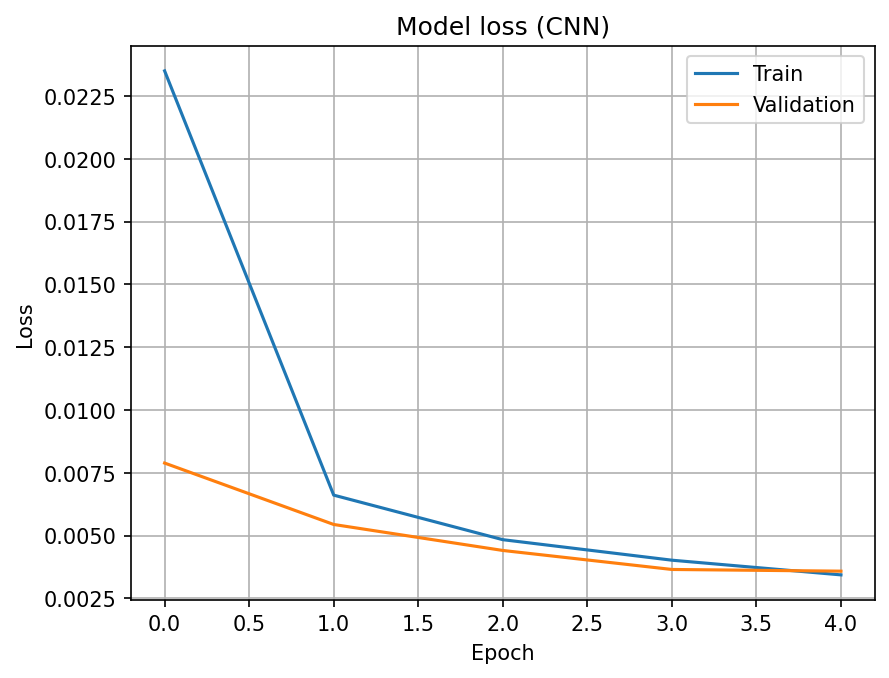
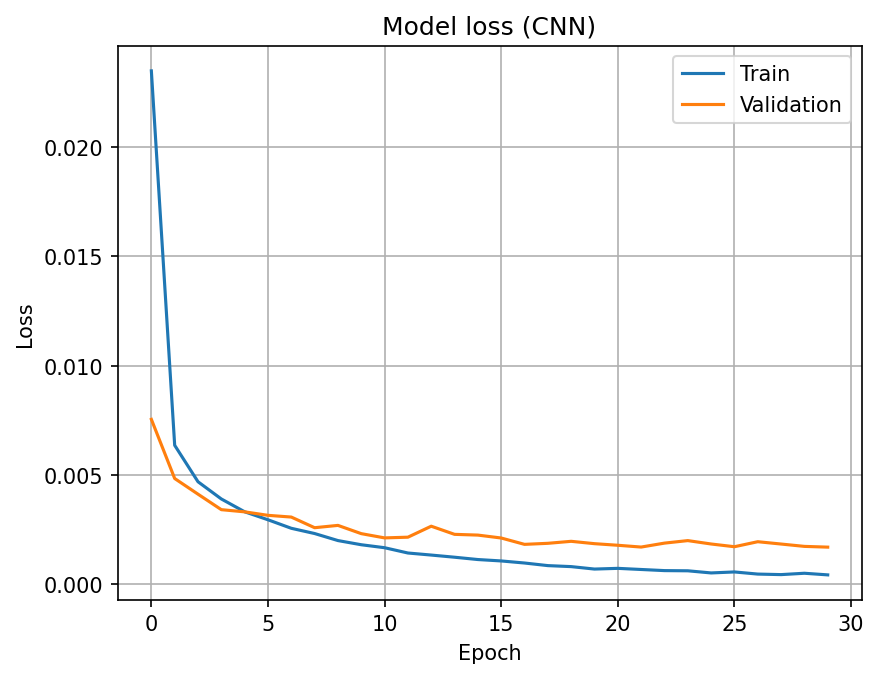
학습률 수정

diff --git a/week3/week3.py b/week3/week3.py
@@ -1,4 +1,4 @@
-import matplotlib
+    import matplotlib
 import numpy as np
 
 import matplotlib.pyplot as plt
@@ -31,7 +31,7 @@ cnn.add(Dense(84, activation='tanh',kernel_initializer='random_uniform', bias_in
 cnn.add(Dense(10, activation='tanh',kernel_initializer='random_uniform', bias_initializer='zeros'))
 
 cnn.compile(loss='mean_squared_error', optimizer=Adam(learning_rate=0.001), metrics=['accuracy'])
-log = cnn.fit(x_train, y_train, batch_size=128, epochs=5, validation_data=(x_test, y_test), verbose=2)
+log = cnn.fit(x_train, y_train, batch_size=128, epochs=30, validation_data=(x_test, y_test), verbose=2)
 result = cnn.evaluate(x_test, y_test, verbose=0)
 
 print("정확률은", result[1] * 100)
